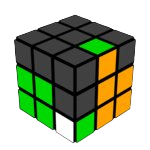
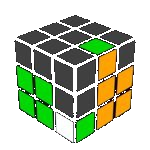
updates

diff --git a/docs/404.html b/docs/404.html
@@ -6,11 +6,11 @@
 		<meta name="viewport" content="width=device-width, initial-scale=1" />
 		<link rel="icon" href="/visualcube.png" type="image/png" />
 		
-		<link rel="modulepreload" href="/_app/immutable/entry/start.DFaku1Rn.js">
-		<link rel="modulepreload" href="/_app/immutable/chunks/D2ve8wlw.js">
+		<link rel="modulepreload" href="/_app/immutable/entry/start.Cd5ps45m.js">
+		<link rel="modulepreload" href="/_app/immutable/chunks/BAQ_rzsc.js">
 		<link rel="modulepreload" href="/_app/immutable/chunks/rs9ByNU6.js">
 		<link rel="modulepreload" href="/_app/immutable/chunks/CgRIaam0.js">
-		<link rel="modulepreload" href="/_app/immutable/entry/app.DKgpjGPZ.js">
+		<link rel="modulepreload" href="/_app/immutable/entry/app.CZrJb5O_.js">
 		<link rel="modulepreload" href="/_app/immutable/chunks/CRVElyO3.js">
 		<link rel="modulepreload" href="/_app/immutable/chunks/D717Ya3N.js">
 		<link rel="modulepreload" href="/_app/immutable/chunks/CdwlPx0b.js">
@@ -20,15 +20,15 @@
 		<div>
 			<script>
 				{
-					__sveltekit_1598v97 = {
+					__sveltekit_1qpb84 = {
 						base: ""
 					};
 
 					const element = document.currentScript.parentElement;
 
 					Promise.all([
-						import("/_app/immutable/entry/start.DFaku1Rn.js"),
-						import("/_app/immutable/entry/app.DKgpjGPZ.js")
+						import("/_app/immutable/entry/start.Cd5ps45m.js"),
+						import("/_app/immutable/entry/app.CZrJb5O_.js")
 					]).then(([kit, app]) => {
 						kit.start(app, element);
 					});

diff --git a/docs/index.html b/docs/index.html
@@ -6,11 +6,11 @@
 		<meta name="viewport" content="width=device-width, initial-scale=1" />
 		<link rel="icon" href="./visualcube.png" type="image/png" />
 		
-		<link rel="modulepreload" href="./_app/immutable/entry/start.DFaku1Rn.js">
-		<link rel="modulepreload" href="./_app/immutable/chunks/D2ve8wlw.js">
+		<link rel="modulepreload" href="./_app/immutable/entry/start.Cd5ps45m.js">
+		<link rel="modulepreload" href="./_app/immutable/chunks/BAQ_rzsc.js">
 		<link rel="modulepreload" href="./_app/immutable/chunks/rs9ByNU6.js">
 		<link rel="modulepreload" href="./_app/immutable/chunks/CgRIaam0.js">
-		<link rel="modulepreload" href="./_app/immutable/entry/app.DKgpjGPZ.js">
+		<link rel="modulepreload" href="./_app/immutable/entry/app.CZrJb5O_.js">
 		<link rel="modulepreload" href="./_app/immutable/chunks/CRVElyO3.js">
 		<link rel="modulepreload" href="./_app/immutable/chunks/D717Ya3N.js">
 		<link rel="modulepreload" href="./_app/immutable/chunks/CdwlPx0b.js">
@@ -20,15 +20,15 @@
 		<div>
 			<script>
 				{
-					__sveltekit_1598v97 = {
+					__sveltekit_1qpb84 = {
 						base: new URL(".", location).pathname.slice(0, -1)
 					};
 
 					const element = document.currentScript.parentElement;
 
 					Promise.all([
-						import("./_app/immutable/entry/start.DFaku1Rn.js"),
-						import("./_app/immutable/entry/app.DKgpjGPZ.js")
+						import("./_app/immutable/entry/start.Cd5ps45m.js"),
+						import("./_app/immutable/entry/app.CZrJb5O_.js")
 					]).then(([kit, app]) => {
 						kit.start(app, element);
 					});

diff --git a/docs/_app/immutable/entry/app.CZrJb5O_.js b/docs/_app/immutable/entry/app.CZrJb5O_.js
@@ -1,0 +1,2 @@
+const __vite__mapDeps=(i,m=__vite__mapDeps,d=(m.f||(m.f=["../nodes/0.B_CgAqGw.js","../chunks/kmWqXwJO.js","../chunks/rs9ByNU6.js","../chunks/CpTit2FH.js","../chunks/D717Ya3N.js","../assets/0.EgBKUeWE.css","../nodes/1.CcfOw_NK.js","../chunks/CdwlPx0b.js","../chunks/BAQ_rzsc.js","../chunks/CgRIaam0.js","../nodes/2.Boyui8M5.js","../chunks/D4XjG2f6.js","../chunks/CRVElyO3.js","../assets/2.DRF_IVwb.css"])))=>i.map(i=>d[i]);
+import{p as b,i as E,b as P,_ as x}from"../chunks/CRVElyO3.js";import{h as N,v as H,J,K,Z as y,a4 as Y,B as u,aA as Z,an as q,aB as z,i as Q,y as U,u as W,aC as R,aD as X,j as g,I as $,k as tt,G as et,H as rt,aE as O,F as at}from"../chunks/rs9ByNU6.js";import{h as st,m as nt,u as ot,s as ct}from"../chunks/CdwlPx0b.js";import{f as T,a as _,c as j,t as it}from"../chunks/kmWqXwJO.js";import{o as ut}from"../chunks/CgRIaam0.js";import{B as mt}from"../chunks/D717Ya3N.js";function k(s,t,a){N&&H();var o=new mt(s);J(()=>{var n=t()??null;o.ensure(n,n&&(e=>a(e,n)))},K)}function dt(s){return class extends lt{constructor(t){super({component:s,...t})}}}class lt{#e;#t;constructor(t){var a=new Map,o=(e,r)=>{var i=z(r,!1,!1);return a.set(e,i),i};const n=new Proxy({...t.props||{},$$events:{}},{get(e,r){return u(a.get(r)??o(r,Reflect.get(e,r)))},has(e,r){return r===Y?!0:(u(a.get(r)??o(r,Reflect.get(e,r))),Reflect.has(e,r))},set(e,r,i){return y(a.get(r)??o(r,i),i),Reflect.set(e,r,i)}});this.#t=(t.hydrate?st:nt)(t.component,{target:t.target,anchor:t.anchor,props:n,context:t.context,intro:t.intro??!1,recover:t.recover}),(!t?.props?.$$host||t.sync===!1)&&Z(),this.#e=n.$$events;for(const e of Object.keys(this.#t))e==="$set"||e==="$destroy"||e==="$on"||q(this,e,{get(){return this.#t[e]},set(r){this.#t[e]=r},enumerable:!0});this.#t.$set=e=>{Object.assign(n,e)},this.#t.$destroy=()=>{ot(this.#t)}}$set(t){this.#t.$set(t)}$on(t,a){this.#e[t]=this.#e[t]||[];const o=(...n)=>a.call(this,...n);return this.#e[t].push(o),()=>{this.#e[t]=this.#e[t].filter(n=>n!==o)}}$destroy(){this.#t.$destroy()}}const Ot={};var ft=T('<div id="svelte-announcer" aria-live="assertive" aria-atomic="true" style="position: absolute; left: 0; top: 0; clip: rect(0 0 0 0); clip-path: inset(50%); overflow: hidden; white-space: nowrap; width: 1px; height: 1px"><!></div>'),_t=T("<!> <!>",1);function ht(s,t){Q(t,!0);let a=b(t,"components",23,()=>[]),o=b(t,"data_0",3,null),n=b(t,"data_1",3,null);U(()=>t.stores.page.set(t.page)),W(()=>{t.stores,t.page,t.constructors,a(),t.form,o(),n(),t.stores.page.notify()});let e=R(!1),r=R(!1),i=R(null);ut(()=>{const c=t.stores.page.subscribe(()=>{u(e)&&(y(r,!0),X().then(()=>{y(i,document.title||"untitled page",!0)}))});return y(e,!0),c});const B=O(()=>t.constructors[1]);var w=_t(),A=g(w);{var D=c=>{const m=O(()=>t.constructors[0]);var d=j(),h=g(d);k(h,()=>u(m),(l,f)=>{P(f(l,{get data(){return o()},get form(){return t.form},get params(){return t.page.params},children:(v,gt)=>{var C=j(),F=g(C);k(F,()=>u(B),(M,V)=>{P(V(M,{get data(){return n()},get form(){return t.form},get params(){return t.page.params}}),G=>a()[1]=G,()=>a()?.[1])}),_(v,C)},$$slots:{default:!0}}),v=>a()[0]=v,()=>a()?.[0])}),_(c,d)},I=c=>{const m=O(()=>t.constructors[0]);var d=j(),h=g(d);k(h,()=>u(m),(l,f)=>{P(f(l,{get data(){return o()},get form(){return t.form},get params(){return t.page.params}}),v=>a()[0]=v,()=>a()?.[0])}),_(c,d)};E(A,c=>{t.constructors[1]?c(D):c(I,!1)})}var L=$(A,2);{var S=c=>{var m=ft(),d=et(m);{var h=l=>{var f=it();at(()=>ct(f,u(i))),_(l,f)};E(d,l=>{u(r)&&l(h)})}rt(m),_(c,m)};E(L,c=>{u(e)&&c(S)})}_(s,w),tt()}const jt=dt(ht),kt=[()=>x(()=>import("../nodes/0.B_CgAqGw.js"),__vite__mapDeps([0,1,2,3,4,5]),import.meta.url),()=>x(()=>import("../nodes/1.CcfOw_NK.js"),__vite__mapDeps([6,1,2,7,8,9]),import.meta.url),()=>x(()=>import("../nodes/2.Boyui8M5.js"),__vite__mapDeps([10,11,1,2,7,12,4,3,9,13]),import.meta.url)],wt=[],At={"/":[2]},p={handleError:(({error:s})=>{console.error(s)}),reroute:(()=>{}),transport:{}},vt=Object.fromEntries(Object.entries(p.transport).map(([s,t])=>[s,t.decode])),Ct=Object.fromEntries(Object.entries(p.transport).map(([s,t])=>[s,t.encode])),Tt=!1,pt=(s,t)=>vt[s](t);export{pt as decode,vt as decoders,At as dictionary,Ct as encoders,Tt as hash,p as hooks,Ot as matchers,kt as nodes,jt as root,wt as server_loads};

diff --git a/docs/_app/immutable/chunks/BAQ_rzsc.js b/docs/_app/immutable/chunks/BAQ_rzsc.js
@@ -1,0 +1,1 @@
+import{b2 as he,b5 as pt,aC as U,B as T,Z as I,aD as ee,b6 as gt}from"./rs9ByNU6.js";import{o as Ne}from"./CgRIaam0.js";const V=[];function Se(e,t=he){let n=null;const a=new Set;function r(s){if(pt(e,s)&&(e=s,n)){const c=!V.length;for(const l of a)l[1](),V.push(l,e);if(c){for(let l=0;l<V.length;l+=2)V[l][0](V[l+1]);V.length=0}}}function i(s){r(s(e))}function o(s,c=he){const l=[s,c];return a.add(l),a.size===1&&(n=t(r,i)||he),s(e),()=>{a.delete(l),a.size===0&&n&&(n(),n=null)}}return{set:r,update:i,subscribe:o}}class Ee{constructor(t,n){this.status=t,typeof n=="string"?this.body={message:n}:n?this.body=n:this.body={message:`Error: ${t}`}}toString(){return JSON.stringify(this.body)}}class Re{constructor(t,n){this.status=t,this.location=n}}class xe extends Error{constructor(t,n,a){super(a),this.status=t,this.text=n}}new URL("sveltekit-internal://");function _t(e,t){return e==="/"||t==="ignore"?e:t==="never"?e.endsWith("/")?e.slice(0,-1):e:t==="always"&&!e.endsWith("/")?e+"/":e}function mt(e){return e.split("%25").map(decodeURI).join("%25")}function wt(e){for(const t in e)e[t]=decodeURIComponent(e[t]);return e}function pe({href:e}){return e.split("#")[0]}function vt(...e){let t=5381;for(const n of e)if(typeof n=="string"){let a=n.length;for(;a;)t=t*33^n.charCodeAt(--a)}else if(ArrayBuffer.isView(n)){const a=new Uint8Array(n.buffer,n.byteOffset,n.byteLength);let r=a.length;for(;r;)t=t*33^a[--r]}else throw new TypeError("value must be a string or TypedArray");return(t>>>0).toString(36)}new TextEncoder;new TextDecoder;function yt(e){const t=atob(e),n=new Uint8Array(t.length);for(let a=0;a<t.length;a++)n[a]=t.charCodeAt(a);return n}const bt=window.fetch;window.fetch=(e,t)=>((e instanceof Request?e.method:t?.method||"GET")!=="GET"&&F.delete(Ae(e)),bt(e,t));const F=new Map;function kt(e,t){const n=Ae(e,t),a=document.querySelector(n);if(a?.textContent){a.remove();let{body:r,...i}=JSON.parse(a.textContent);const o=a.getAttribute("data-ttl");return o&&F.set(n,{body:r,init:i,ttl:1e3*Number(o)}),a.getAttribute("data-b64")!==null&&(r=yt(r)),Promise.resolve(new Response(r,i))}return window.fetch(e,t)}function St(e,t,n){if(F.size>0){const a=Ae(e,n),r=F.get(a);if(r){if(performance.now()<r.ttl&&["default","force-cache","only-if-cached",void 0].includes(n?.cache))return new Response(r.body,r.init);F.delete(a)}}return window.fetch(t,n)}function Ae(e,t){let a=`script[data-sveltekit-fetched][data-url=${JSON.stringify(e instanceof Request?e.url:e)}]`;if(t?.headers||t?.body){const r=[];t.headers&&r.push([...new Headers(t.headers)].join(",")),t.body&&(typeof t.body=="string"||ArrayBuffer.isView(t.body))&&r.push(t.body),a+=`[data-hash="${vt(...r)}"]`}return a}const Et=/^(\[)?(\.\.\.)?(\w+)(?:=(\w+))?(\])?$/;function Rt(e){const t=[];return{pattern:e==="/"?/^\/$/:new RegExp(`^${At(e).map(a=>{const r=/^\[\.\.\.(\w+)(?:=(\w+))?\]$/.exec(a);if(r)return t.push({name:r[1],matcher:r[2],optional:!1,rest:!0,chained:!0}),"(?:/([^]*))?";const i=/^\[\[(\w+)(?:=(\w+))?\]\]$/.exec(a);if(i)return t.push({name:i[1],matcher:i[2],optional:!0,rest:!1,chained:!0}),"(?:/([^/]+))?";if(!a)return;const o=a.split(/\[(.+?)\](?!\])/);return"/"+o.map((c,l)=>{if(l%2){if(c.startsWith("x+"))return ge(String.fromCharCode(parseInt(c.slice(2),16)));if(c.startsWith("u+"))return ge(String.fromCharCode(...c.slice(2).split("-").map(m=>parseInt(m,16))));const f=Et.exec(c),[,h,w,u,g]=f;return t.push({name:u,matcher:g,optional:!!h,rest:!!w,chained:w?l===1&&o[0]==="":!1}),w?"([^]*?)":h?"([^/]*)?":"([^/]+?)"}return ge(c)}).join("")}).join("")}/?$`),params:t}}function xt(e){return e!==""&&!/^\([^)]+\)$/.test(e)}function At(e){return e.slice(1).split("/").filter(xt)}function Lt(e,t,n){const a={},r=e.slice(1),i=r.filter(s=>s!==void 0);let o=0;for(let s=0;s<t.length;s+=1){const c=t[s];let l=r[s-o];if(c.chained&&c.rest&&o&&(l=r.slice(s-o,s+1).filter(f=>f).join("/"),o=0),l===void 0){c.rest&&(a[c.name]="");continue}if(!c.matcher||n[c.matcher](l)){a[c.name]=l;const f=t[s+1],h=r[s+1];f&&!f.rest&&f.optional&&h&&c.chained&&(o=0),!f&&!h&&Object.keys(a).length===i.length&&(o=0);continue}if(c.optional&&c.chained){o++;continue}return}if(!o)return a}function ge(e){return e.normalize().replace(/[[\]]/g,"\\$&").replace(/%/g,"%25").replace(/\//g,"%2[Ff]").replace(/\?/g,"%3[Ff]").replace(/#/g,"%23").replace(/[.*+?^${}()|\\]/g,"\\$&")}function Ut({nodes:e,server_loads:t,dictionary:n,matchers:a}){const r=new Set(t);return Object.entries(n).map(([s,[c,l,f]])=>{const{pattern:h,params:w}=Rt(s),u={id:s,exec:g=>{const m=h.exec(g);if(m)return Lt(m,w,a)},errors:[1,...f||[]].map(g=>e[g]),layouts:[0,...l||[]].map(o),leaf:i(c)};return u.errors.length=u.layouts.length=Math.max(u.errors.length,u.layouts.length),u});function i(s){const c=s<0;return c&&(s=~s),[c,e[s]]}function o(s){return s===void 0?s:[r.has(s),e[s]]}}function Ge(e,t=JSON.parse){try{return t(sessionStorage[e])}catch{}}function De(e,t,n=JSON.stringify){const a=n(t);try{sessionStorage[e]=a}catch{}}const x=globalThis.__sveltekit_1qpb84?.base??"",Tt=globalThis.__sveltekit_1qpb84?.assets??x??"",It="[phone redacted]",We="sveltekit:snapshot",Ye="sveltekit:scroll",He="sveltekit:states",Ot="sveltekit:pageurl",K="sveltekit:history",W="sveltekit:navigation",j={tap:1,hover:2,viewport:3,eager:4,off:-1,false:-1},Le=location.origin;function Je(e){if(e instanceof URL)return e;let t=document.baseURI;if(!t){const n=document.getElementsByTagName("base");t=n.length?n[0].href:document.URL}return new URL(e,t)}function le(){return{x:pageXOffset,y:pageYOffset}}function B(e,t){return e.getAttribute(`data-sveltekit-${t}`)}const Ve={...j,"":j.hover};function Xe(e){let t=e.assignedSlot??e.parentNode;return t?.nodeType===11&&(t=t.host),t}function Ze(e,t){for(;e&&e!==t;){if(e.nodeName.toUpperCase()==="A"&&e.hasAttribute("href"))return e;e=Xe(e)}}function we(e,t,n){let a;try{if(a=new URL(e instanceof SVGAElement?e.href.baseVal:e.href,document.baseURI),n&&a.hash.match(/^#[^/]/)){const s=location.hash.split("#")[1]||"/";a.hash=`#${s}${a.hash}`}}catch{}const r=e instanceof SVGAElement?e.target.baseVal:e.target,i=!a||!!r||ue(a,t,n)||(e.getAttribute("rel")||"").split(/\s+/).includes("external"),o=a?.origin===Le&&e.hasAttribute("download");return{url:a,external:i,target:r,download:o}}function te(e){let t=null,n=null,a=null,r=null,i=null,o=null,s=e;for(;s&&s!==document.documentElement;)a===null&&(a=B(s,"preload-code")),r===null&&(r=B(s,"preload-data")),t===null&&(t=B(s,"keepfocus")),n===null&&(n=B(s,"noscroll")),i===null&&(i=B(s,"reload")),o===null&&(o=B(s,"replacestate")),s=Xe(s);function c(l){switch(l){case"":case"true":return!0;case"off":case"false":return!1;default:return}}return{preload_code:Ve[a??"off"],preload_data:Ve[r??"off"],keepfocus:c(t),noscroll:c(n),reload:c(i),replace_state:c(o)}}function Be(e){const t=Se(e);let n=!0;function a(){n=!0,t.update(o=>o)}function r(o){n=!1,t.set(o)}function i(o){let s;return t.subscribe(c=>{(s===void 0||n&&c!==s)&&o(s=c)})}return{notify:a,set:r,subscribe:i}}const Qe={v:()=>{}};function Ct(){const{set:e,subscribe:t}=Se(!1);let n;async function a(){clearTimeout(n);try{const r=await fetch(`${Tt}/_app/version.json`,{headers:{pragma:"no-cache","cache-control":"no-cache"}});if(!r.ok)return!1;const o=(await r.json()).version!==It;return o&&(e(!0),Qe.v(),clearTimeout(n)),o}catch{return!1}}return{subscribe:t,check:a}}function ue(e,t,n){return e.origin!==Le||!e.pathname.startsWith(t)?!0:n?e.pathname!==location.pathname:!1}function cn(e){}const et=new Set(["load","prerender","csr","ssr","trailingSlash","config"]);[...et];const Pt=new Set([...et]);[...Pt];function $t(e){return e.filter(t=>t!=null)}function Ue(e){return e instanceof Ee||e instanceof xe?e.status:500}function jt(e){return e instanceof xe?e.text:"Internal Error"}let k,Y,_e;const qt=Ne.toString().includes("$$")||/function \w+\(\) \{\}/.test(Ne.toString());qt?(k={data:{},form:null,error:null,params:{},route:{id:null},state:{},status:-1,url:new URL("https://example.com")},Y={current:null},_e={current:!1}):(k=new class{#e=U({});get data(){return T(this.#e)}set data(t){I(this.#e,t)}#t=U(null);get form(){return T(this.#t)}set form(t){I(this.#t,t)}#n=U(null);get error(){return T(this.#n)}set error(t){I(this.#n,t)}#a=U({});get params(){return T(this.#a)}set params(t){I(this.#a,t)}#r=U({id:null});get route(){return T(this.#r)}set route(t){I(this.#r,t)}#o=U({});get state(){return T(this.#o)}set state(t){I(this.#o,t)}#s=U(-1);get status(){return T(this.#s)}set status(t){I(this.#s,t)}#i=U(new URL("https://example.com"));get url(){return T(this.#i)}set url(t){I(this.#i,t)}},Y=new class{#e=U(null);get current(){return T(this.#e)}set current(t){I(this.#e,t)}},_e=new class{#e=U(!1);get current(){return T(this.#e)}set current(t){I(this.#e,t)}},Qe.v=()=>_e.current=!0);function Nt(e){Object.assign(k,e)}const Dt=new Set(["icon","shortcut icon","apple-touch-icon"]),N=Ge(Ye)??{},H=Ge(We)??{},$={url:Be({}),page:Be({}),navigating:Se(null),updated:Ct()};function Te(e){N[e]=le()}function Vt(e,t){let n=e+1;for(;N[n];)delete N[n],n+=1;for(n=t+1;H[n];)delete H[n],n+=1}function J(e,t=!1){return t?location.replace(e.href):location.href=e.href,new Promise(()=>{})}async function tt(){if("serviceWorker"in navigator){const e=await navigator.serviceWorker.getRegistration(x||"/");e&&await e.update()}}function Ke(){}let Ie,ve,ne,O,ye,v;const ae=[],re=[];let A=null;function be(){A?.fork?.then(e=>e?.discard()),A=null}const Q=new Map,nt=new Set,Bt=new Set,G=new Set;let _={branch:[],error:null,url:null},at=!1,oe=!1,Me=!0,X=!1,z=!1,rt=!1,Oe=!1,ot,y,R,q;const se=new Set,ze=new Map;async function dn(e,t,n){globalThis.__sveltekit_1qpb84?.data&&globalThis.__sveltekit_1qpb84.data,document.URL!==location.href&&(location.href=location.href),v=e,await e.hooks.init?.(),Ie=Ut(e),O=document.documentElement,ye=t,ve=e.nodes[0],ne=e.nodes[1],ve(),ne(),y=history.state?.[K],R=history.state?.[W],y||(y=R=Date.now(),history.replaceState({...history.state,[K]:y,[W]:R},""));const a=N[y];function r(){a&&(history.scrollRestoration="manual",scrollTo(a.x,a.y))}n?(r(),await tn(ye,n)):(await M({type:"enter",url:Je(v.hash?rn(new URL(location.href)):location.href),replace_state:!0}),r()),en()}function Kt(){ae.length=0,Oe=!1}function st(e){re.some(t=>t?.snapshot)&&(H[e]=re.map(t=>t?.snapshot?.capture()))}function it(e){H[e]?.forEach((t,n)=>{re[n]?.snapshot?.restore(t)})}function Fe(){Te(y),De(Ye,N),st(R),De(We,H)}async function Mt(e,t,n,a){let r;t.invalidateAll&&be(),await M({type:"goto",url:Je(e),keepfocus:t.keepFocus,noscroll:t.noScroll,replace_state:t.replaceState,state:t.state,redirect_count:n,nav_token:a,accept:()=>{t.invalidateAll&&(Oe=!0,r=[...ze.keys()]),t.invalidate&&t.invalidate.forEach(Qt)}}),t.invalidateAll&&ee().then(ee).then(()=>{ze.forEach(({resource:i},o)=>{r?.includes(o)&&i.refresh?.()})})}async function zt(e){if(e.id!==A?.id){be();const t={};se.add(t),A={id:e.id,token:t,promise:lt({...e,preload:t}).then(n=>(se.delete(t),n.type==="loaded"&&n.state.error&&be(),n)),fork:null}}return A.promise}async function me(e){const t=(await fe(e,!1))?.route;t&&await Promise.all([...t.layouts,t.leaf].map(n=>n?.[1]()))}async function ct(e,t,n){_=e.state;const a=document.querySelector("style[data-sveltekit]");if(a&&a.remove(),Object.assign(k,e.props.page),ot=new v.root({target:t,props:{...e.props,stores:$,components:re},hydrate:n,sync:!1}),await Promise.resolve(),it(R),n){const r={from:null,to:{params:_.params,route:{id:_.route?.id??null},url:new URL(location.href)},willUnload:!1,type:"enter",complete:Promise.resolve()};G.forEach(i=>i(r))}oe=!0}function ie({url:e,params:t,branch:n,status:a,error:r,route:i,form:o}){let s="never";if(x&&(e.pathname===x||e.pathname===x+"/"))s="always";else for(const u of n)u?.slash!==void 0&&(s=u.slash);e.pathname=_t(e.pathname,s),e.search=e.search;const c={type:"loaded",state:{url:e,params:t,branch:n,error:r,route:i},props:{constructors:$t(n).map(u=>u.node.component),page:qe(k)}};o!==void 0&&(c.props.form=o);let l={},f=!k,h=0;for(let u=0;u<Math.max(n.length,_.branch.length);u+=1){const g=n[u],m=_.branch[u];g?.data!==m?.data&&(f=!0),g&&(l={...l,...g.data},f&&(c.props[`data_${h}`]=l),h+=1)}return(!_.url||e.href!==_.url.href||_.error!==r||o!==void 0&&o!==k.form||f)&&(c.props.page={error:r,params:t,route:{id:i?.id??null},state:{},status:a,url:new URL(e),form:o??null,data:f?l:k.data}),c}async function Ce({loader:e,parent:t,url:n,params:a,route:r,server_data_node:i}){let o=null;const s={dependencies:new Set,params:new Set,parent:!1,route:!1,url:!1,search_params:new Set},c=await e();return{node:c,loader:e,server:i,universal:c.universal?.load?{type:"data",data:o,uses:s}:null,data:o??i?.data??null,slash:c.universal?.trailingSlash??i?.slash}}function Ft(e,t,n){let a=e instanceof Request?e.url:e;const r=new URL(a,n);r.origin===n.origin&&(a=r.href.slice(n.origin.length));const i=oe?St(a,r.href,t):kt(a,t);return{resolved:r,promise:i}}function Gt(e,t,n,a,r,i){if(Oe)return!0;if(!r)return!1;if(r.parent&&e||r.route&&t||r.url&&n)return!0;for(const o of r.search_params)if(a.has(o))return!0;for(const o of r.params)if(i[o]!==_.params[o])return!0;for(const o of r.dependencies)if(ae.some(s=>s(new URL(o))))return!0;return!1}function Pe(e,t){return e?.type==="data"?e:e?.type==="skip"?t??null:null}function Wt(e,t){if(!e)return new Set(t.searchParams.keys());const n=new Set([...e.searchParams.keys(),...t.searchParams.keys()]);for(const a of n){const r=e.searchParams.getAll(a),i=t.searchParams.getAll(a);r.every(o=>i.includes(o))&&i.every(o=>r.includes(o))&&n.delete(a)}return n}function Yt({error:e,url:t,route:n,params:a}){return{type:"loaded",state:{error:e,url:t,route:n,params:a,branch:[]},props:{page:qe(k),constructors:[]}}}async function lt({id:e,invalidating:t,url:n,params:a,route:r,preload:i}){if(A?.id===e)return se.delete(A.token),A.promise;const{errors:o,layouts:s,leaf:c}=r,l=[...s,c];o.forEach(p=>p?.().catch(()=>{})),l.forEach(p=>p?.[1]().catch(()=>{}));const f=_.url?e!==ce(_.url):!1,h=_.route?r.id!==_.route.id:!1,w=Wt(_.url,n);let u=!1;const g=l.map(async(p,d)=>{if(!p)return;const S=_.branch[d];return p[1]===S?.loader&&!Gt(u,h,f,w,S.universal?.uses,a)?S:(u=!0,Ce({loader:p[1],url:n,params:a,route:r,parent:async()=>{const C={};for(let L=0;L<d;L+=1)Object.assign(C,(await g[L])?.data);return C},server_data_node:Pe(p[0]?{type:"skip"}:null,p[0]?S?.server:void 0)}))});for(const p of g)p.catch(()=>{});const m=[];for(let p=0;p<l.length;p+=1)if(l[p])try{m.push(await g[p])}catch(d){if(d instanceof Re)return{type:"redirect",location:d.location};if(se.has(i))return Yt({error:await Z(d,{params:a,url:n,route:{id:r.id}}),url:n,params:a,route:r});let S=Ue(d),E;if(d instanceof Ee)E=d.body;else{if(await $.updated.check())return await tt(),await J(n);E=await Z(d,{params:a,url:n,route:{id:r.id}})}const C=await Ht(p,m,o);return C?ie({url:n,params:a,branch:m.slice(0,C.idx).concat(C.node),status:S,error:E,route:r}):await ft(n,{id:r.id},E,S)}else m.push(void 0);return ie({url:n,params:a,branch:m,status:200,error:null,route:r,form:t?void 0:null})}async function Ht(e,t,n){for(;e--;)if(n[e]){let a=e;for(;!t[a];)a-=1;try{return{idx:a+1,node:{node:await n[e](),loader:n[e],data:{},server:null,universal:null}}}catch{continue}}}async function $e({status:e,error:t,url:n,route:a}){const r={};let i=null;try{const o=await Ce({loader:ve,url:n,params:r,route:a,parent:()=>Promise.resolve({}),server_data_node:Pe(i)}),s={node:await ne(),loader:ne,universal:null,server:null,data:null};return ie({url:n,params:r,branch:[o,s],status:e,error:t,route:null})}catch(o){if(o instanceof Re)return Mt(new URL(o.location,location.href),{},0);throw o}}async function Jt(e){const t=e.href;if(Q.has(t))return Q.get(t);let n;try{const a=(async()=>{let r=await v.hooks.reroute({url:new URL(e),fetch:async(i,o)=>Ft(i,o,e).promise})??e;if(typeof r=="string"){const i=new URL(e);v.hash?i.hash=r:i.pathname=r,r=i}return r})();Q.set(t,a),n=await a}catch{Q.delete(t);return}return n}async function fe(e,t){if(e&&!ue(e,x,v.hash)){const n=await Jt(e);if(!n)return;const a=Xt(n);for(const r of Ie){const i=r.exec(a);if(i)return{id:ce(e),invalidating:t,route:r,params:wt(i),url:e}}}}function Xt(e){return mt(v.hash?e.hash.replace(/^#/,"").replace(/[?#].+/,""):e.pathname.slice(x.length))||"/"}function ce(e){return(v.hash?e.hash.replace(/^#/,""):e.pathname)+e.search}function ut({url:e,type:t,intent:n,delta:a,event:r}){let i=!1;const o=je(_,n,e,t);a!==void 0&&(o.navigation.delta=a),r!==void 0&&(o.navigation.event=r);const s={...o.navigation,cancel:()=>{i=!0,o.reject(new Error("navigation cancelled"))}};return X||nt.forEach(c=>c(s)),i?null:o}async function M({type:e,url:t,popped:n,keepfocus:a,noscroll:r,replace_state:i,state:o={},redirect_count:s=0,nav_token:c={},accept:l=Ke,block:f=Ke,event:h}){const w=q;q=c;const u=await fe(t,!1),g=e==="enter"?je(_,u,t,e):ut({url:t,type:e,delta:n?.delta,intent:u,event:h});if(!g){f(),q===c&&(q=w);return}const m=y,p=R;l(),X=!0,oe&&g.navigation.type!=="enter"&&$.navigating.set(Y.current=g.navigation);let d=u&&await lt(u);if(!d){if(ue(t,x,v.hash))return await J(t,i);d=await ft(t,{id:null},await Z(new xe(404,"Not Found",`Not found: ${t.pathname}`),{url:t,params:{},route:{id:null}}),404,i)}if(t=u?.url||t,q!==c)return g.reject(new Error("navigation aborted")),!1;if(d.type==="redirect"){if(s<20){await M({type:e,url:new URL(d.location,t),popped:n,keepfocus:a,noscroll:r,replace_state:i,state:o,redirect_count:s+1,nav_token:c}),g.fulfil(void 0);return}d=await $e({status:500,error:await Z(new Error("Redirect loop"),{url:t,params:{},route:{id:null}}),url:t,route:{id:null}})}else d.props.page.status>=400&&await $.updated.check()&&(await tt(),await J(t,i));if(Kt(),Te(m),st(p),d.props.page.url.pathname!==t.pathname&&(t.pathname=d.props.page.url.pathname),o=n?n.state:o,!n){const b=i?0:1,D={[K]:y+=b,[W]:R+=b,[He]:o};(i?history.replaceState:history.pushState).call(history,D,"",t),i||Vt(y,R)}const S=u&&A?.id===u.id?A.fork:null;A=null,d.props.page.state=o;let E;if(oe){const b=(await Promise.all(Array.from(Bt,P=>P(g.navigation)))).filter(P=>typeof P=="function");if(b.length>0){let P=function(){b.forEach(de=>{G.delete(de)})};b.push(P),b.forEach(de=>{G.add(de)})}_=d.state,d.props.page&&(d.props.page.url=t);const D=S&&await S;D?E=D.commit():(ot.$set(d.props),Nt(d.props.page),E=gt?.()),rt=!0}else await ct(d,ye,!1);const{activeElement:C}=document;await E,await ee(),await ee();let L=n?n.scroll:r?le():null;if(Me){const b=t.hash&&document.getElementById(dt(t));if(L)scrollTo(L.x,L.y);else if(b){b.scrollIntoView();const{top:D,left:P}=b.getBoundingClientRect();L={x:pageXOffset+P,y:pageYOffset+D}}else scrollTo(0,0)}const ht=document.activeElement!==C&&document.activeElement!==document.body;!a&&!ht&&an(t,L),Me=!0,d.props.page&&Object.assign(k,d.props.page),X=!1,e==="popstate"&&it(R),g.fulfil(void 0),G.forEach(b=>b(g.navigation)),$.navigating.set(Y.current=null)}async function ft(e,t,n,a,r){return e.origin===Le&&e.pathname===location.pathname&&!at?await $e({status:a,error:n,url:e,route:t}):await J(e,r)}function Zt(){let e,t={element:void 0,href:void 0},n;O.addEventListener("mousemove",s=>{const c=s.target;clearTimeout(e),e=setTimeout(()=>{i(c,j.hover)},20)});function a(s){s.defaultPrevented||i(s.composedPath()[0],j.tap)}O.addEventListener("mousedown",a),O.addEventListener("touchstart",a,{passive:!0});const r=new IntersectionObserver(s=>{for(const c of s)c.isIntersecting&&(me(new URL(c.target.href)),r.unobserve(c.target))},{threshold:0});async function i(s,c){const l=Ze(s,O),f=l===t.element&&l?.href===t.href&&c>=n;if(!l||f)return;const{url:h,external:w,download:u}=we(l,x,v.hash);if(w||u)return;const g=te(l),m=h&&ce(_.url)===ce(h);if(!(g.reload||m))if(c<=g.preload_data){t={element:l,href:l.href},n=j.tap;const p=await fe(h,!1);if(!p)return;zt(p)}else c<=g.preload_code&&(t={element:l,href:l.href},n=c,me(h))}function o(){r.disconnect();for(const s of O.querySelectorAll("a")){const{url:c,external:l,download:f}=we(s,x,v.hash);if(l||f)continue;const h=te(s);h.reload||(h.preload_code===j.viewport&&r.observe(s),h.preload_code===j.eager&&me(c))}}G.add(o),o()}function Z(e,t){if(e instanceof Ee)return e.body;const n=Ue(e),a=jt(e);return v.hooks.handleError({error:e,event:t,status:n,message:a})??{message:a}}function Qt(e){if(typeof e=="function")ae.push(e);else{const{href:t}=new URL(e,location.href);ae.push(n=>n.href===t)}}function en(){history.scrollRestoration="manual",addEventListener("beforeunload",t=>{let n=!1;if(Fe(),!X){const a=je(_,void 0,null,"leave"),r={...a.navigation,cancel:()=>{n=!0,a.reject(new Error("navigation cancelled"))}};nt.forEach(i=>i(r))}n?(t.preventDefault(),t.returnValue=""):history.scrollRestoration="auto"}),addEventListener("visibilitychange",()=>{document.visibilityState==="hidden"&&Fe()}),navigator.connection?.saveData||Zt(),O.addEventListener("click",async t=>{if(t.button||t.which!==1||t.metaKey||t.ctrlKey||t.shiftKey||t.altKey||t.defaultPrevented)return;const n=Ze(t.composedPath()[0],O);if(!n)return;const{url:a,external:r,target:i,download:o}=we(n,x,v.hash);if(!a)return;if(i==="_parent"||i==="_top"){if(window.parent!==window)return}else if(i&&i!=="_self")return;const s=te(n);if(!(n instanceof SVGAElement)&&a.protocol!==location.protocol&&!(a.protocol==="https:"||a.protocol==="http:")||o)return;const[l,f]=(v.hash?a.hash.replace(/^#/,""):a.href).split("#"),h=l===pe(location);if(r||s.reload&&(!h||!f)){ut({url:a,type:"link",event:t})?X=!0:t.preventDefault();return}if(f!==void 0&&h){const[,w]=_.url.href.split("#");if(w===f){if(t.preventDefault(),f===""||f==="top"&&n.ownerDocument.getElementById("top")===null)scrollTo({top:0});else{const u=n.ownerDocument.getElementById(decodeURIComponent(f));u&&(u.scrollIntoView(),u.focus())}return}if(z=!0,Te(y),e(a),!s.replace_state)return;z=!1}t.preventDefault(),await new Promise(w=>{requestAnimationFrame(()=>{setTimeout(w,0)}),setTimeout(w,100)}),await M({type:"link",url:a,keepfocus:s.keepfocus,noscroll:s.noscroll,replace_state:s.replace_state??a.href===location.href,event:t})}),O.addEventListener("submit",t=>{if(t.defaultPrevented)return;const n=HTMLFormElement.prototype.cloneNode.call(t.target),a=t.submitter;if((a?.formTarget||n.target)==="_blank"||(a?.formMethod||n.method)!=="get")return;const o=new URL(a?.hasAttribute("formaction")&&a?.formAction||n.action);if(ue(o,x,!1))return;const s=t.target,c=te(s);if(c.reload)return;t.preventDefault(),t.stopPropagation();const l=new FormData(s,a);o.search=new URLSearchParams(l).toString(),M({type:"form",url:o,keepfocus:c.keepfocus,noscroll:c.noscroll,replace_state:c.replace_state??o.href===location.href,event:t})}),addEventListener("popstate",async t=>{if(!ke){if(t.state?.[K]){const n=t.state[K];if(q={},n===y)return;const a=N[n],r=t.state[He]??{},i=new URL(t.state[Ot]??location.href),o=t.state[W],s=_.url?pe(location)===pe(_.url):!1;if(o===R&&(rt||s)){r!==k.state&&(k.state=r),e(i),N[y]=le(),a&&scrollTo(a.x,a.y),y=n;return}const l=n-y;await M({type:"popstate",url:i,popped:{state:r,scroll:a,delta:l},accept:()=>{y=n,R=o},block:()=>{history.go(-l)},nav_token:q,event:t})}else if(!z){const n=new URL(location.href);e(n),v.hash&&location.reload()}}}),addEventListener("hashchange",()=>{z&&(z=!1,history.replaceState({...history.state,[K]:++y,[W]:R},"",location.href))});for(const t of document.querySelectorAll("link"))Dt.has(t.rel)&&(t.href=t.href);addEventListener("pageshow",t=>{t.persisted&&$.navigating.set(Y.current=null)});function e(t){_.url=k.url=t,$.page.set(qe(k)),$.page.notify()}}async function tn(e,{status:t=200,error:n,node_ids:a,params:r,route:i,server_route:o,data:s,form:c}){at=!0;const l=new URL(location.href);let f;({params:r={},route:i={id:null}}=await fe(l,!1)||{}),f=Ie.find(({id:u})=>u===i.id);let h,w=!0;try{const u=a.map(async(m,p)=>{const d=s[p];return d?.uses&&(d.uses=nn(d.uses)),Ce({loader:v.nodes[m],url:l,params:r,route:i,parent:async()=>{const S={};for(let E=0;E<p;E+=1)Object.assign(S,(await u[E]).data);return S},server_data_node:Pe(d)})}),g=await Promise.all(u);if(f){const m=f.layouts;for(let p=0;p<m.length;p++)m[p]||g.splice(p,0,void 0)}h=ie({url:l,params:r,branch:g,status:t,error:n,form:c,route:f??null})}catch(u){if(u instanceof Re){await J(new URL(u.location,location.href));return}h=await $e({status:Ue(u),error:await Z(u,{url:l,params:r,route:i}),url:l,route:i}),e.textContent="",w=!1}h.props.page&&(h.props.page.state={}),await ct(h,e,w)}function nn(e){return{dependencies:new Set(e?.dependencies??[]),params:new Set(e?.params??[]),parent:!!e?.parent,route:!!e?.route,url:!!e?.url,search_params:new Set(e?.search_params??[])}}let ke=!1;function an(e,t=null){const n=document.querySelector("[autofocus]");if(n)n.focus();else{const a=dt(e);if(a&&document.getElementById(a)){const{x:i,y:o}=t??le();setTimeout(()=>{const s=history.state;ke=!0,location.replace(`#${a}`),v.hash&&location.replace(e.hash),history.replaceState(s,"",e.hash),scrollTo(i,o),ke=!1})}else{const i=document.body,o=i.getAttribute("tabindex");i.tabIndex=-1,i.focus({preventScroll:!0,focusVisible:!1}),o!==null?i.setAttribute("tabindex",o):i.removeAttribute("tabindex")}const r=getSelection();if(r&&r.type!=="None"){const i=[];for(let o=0;o<r.rangeCount;o+=1)i.push(r.getRangeAt(o));setTimeout(()=>{if(r.rangeCount===i.length){for(let o=0;o<r.rangeCount;o+=1){const s=i[o],c=r.getRangeAt(o);if(s.commonAncestorContainer!==c.commonAncestorContainer||s.startContainer!==c.startContainer||s.endContainer!==c.endContainer||s.startOffset!==c.startOffset||s.endOffset!==c.endOffset)return}r.removeAllRanges()}})}}}function je(e,t,n,a){let r,i;const o=new Promise((c,l)=>{r=c,i=l});return o.catch(()=>{}),{navigation:{from:{params:e.params,route:{id:e.route?.id??null},url:e.url},to:n&&{params:t?.params??null,route:{id:t?.route?.id??null},url:n},willUnload:!t,type:a,complete:o},fulfil:r,reject:i}}function qe(e){return{data:e.data,error:e.error,form:e.form,params:e.params,route:e.route,state:e.state,status:e.status,url:e.url}}function rn(e){const t=new URL(e);return t.hash=decodeURIComponent(e.hash),t}function dt(e){let t;if(v.hash){const[,,n]=e.hash.split("#",3);t=n??""}else t=e.hash.slice(1);return decodeURIComponent(t)}export{dn as a,cn as l,k as p,$ as s};

diff --git a/docs/_app/immutable/entry/start.Cd5ps45m.js b/docs/_app/immutable/entry/start.Cd5ps45m.js
@@ -1,0 +1,1 @@
+import{l as o,a as r}from"../chunks/BAQ_rzsc.js";export{o as load_css,r as start};

diff --git a/docs/_app/immutable/nodes/1.CcfOw_NK.js b/docs/_app/immutable/nodes/1.CcfOw_NK.js
@@ -1,0 +1,1 @@
+import{f as b,a as k}from"../chunks/kmWqXwJO.js";import{f as x,y,u as i,g as $,z as l,A as E,B as v,C as j,D as z,E as A,i as B,j as C,F as D,k as F,G as u,H as m,I as G}from"../chunks/rs9ByNU6.js";import{s as g}from"../chunks/CdwlPx0b.js";import{s as H,p as _}from"../chunks/BAQ_rzsc.js";function I(a=!1){const t=x,e=t.l.u;if(!e)return;let r=()=>j(t.s);if(a){let o=0,s={};const f=z(()=>{let p=!1;const c=t.s;for(const n in c)c[n]!==s[n]&&(s[n]=c[n],p=!0);return p&&o++,o});r=()=>v(f)}e.b.length&&y(()=>{d(t,r),l(e.b)}),i(()=>{const o=$(()=>e.m.map(E));return()=>{for(const s of o)typeof s=="function"&&s()}}),e.a.length&&i(()=>{d(t,r),l(e.a)})}function d(a,t){if(a.l.s)for(const e of a.l.s)v(e);t()}A();const q={get error(){return _.error},get status(){return _.status}};H.updated.check;const h=q;var w=b("<h1> </h1> <p> </p>",1);function N(a,t){B(t,!1),I();var e=w(),r=C(e),o=u(r,!0);m(r);var s=G(r,2),f=u(s,!0);m(s),D(()=>{g(o,h.status),g(f,h.error?.message)}),k(a,e),F()}export{N as component};